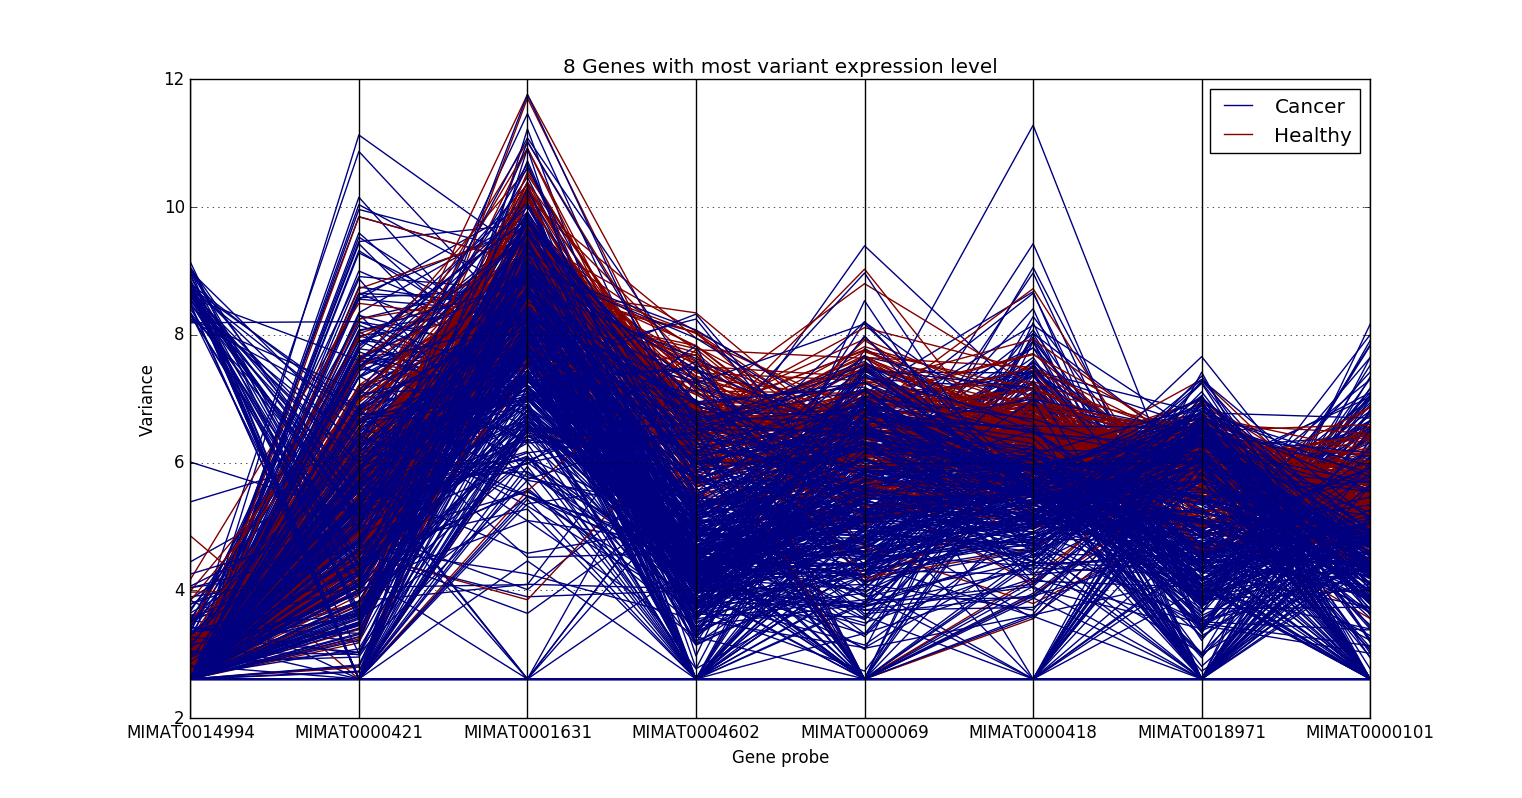
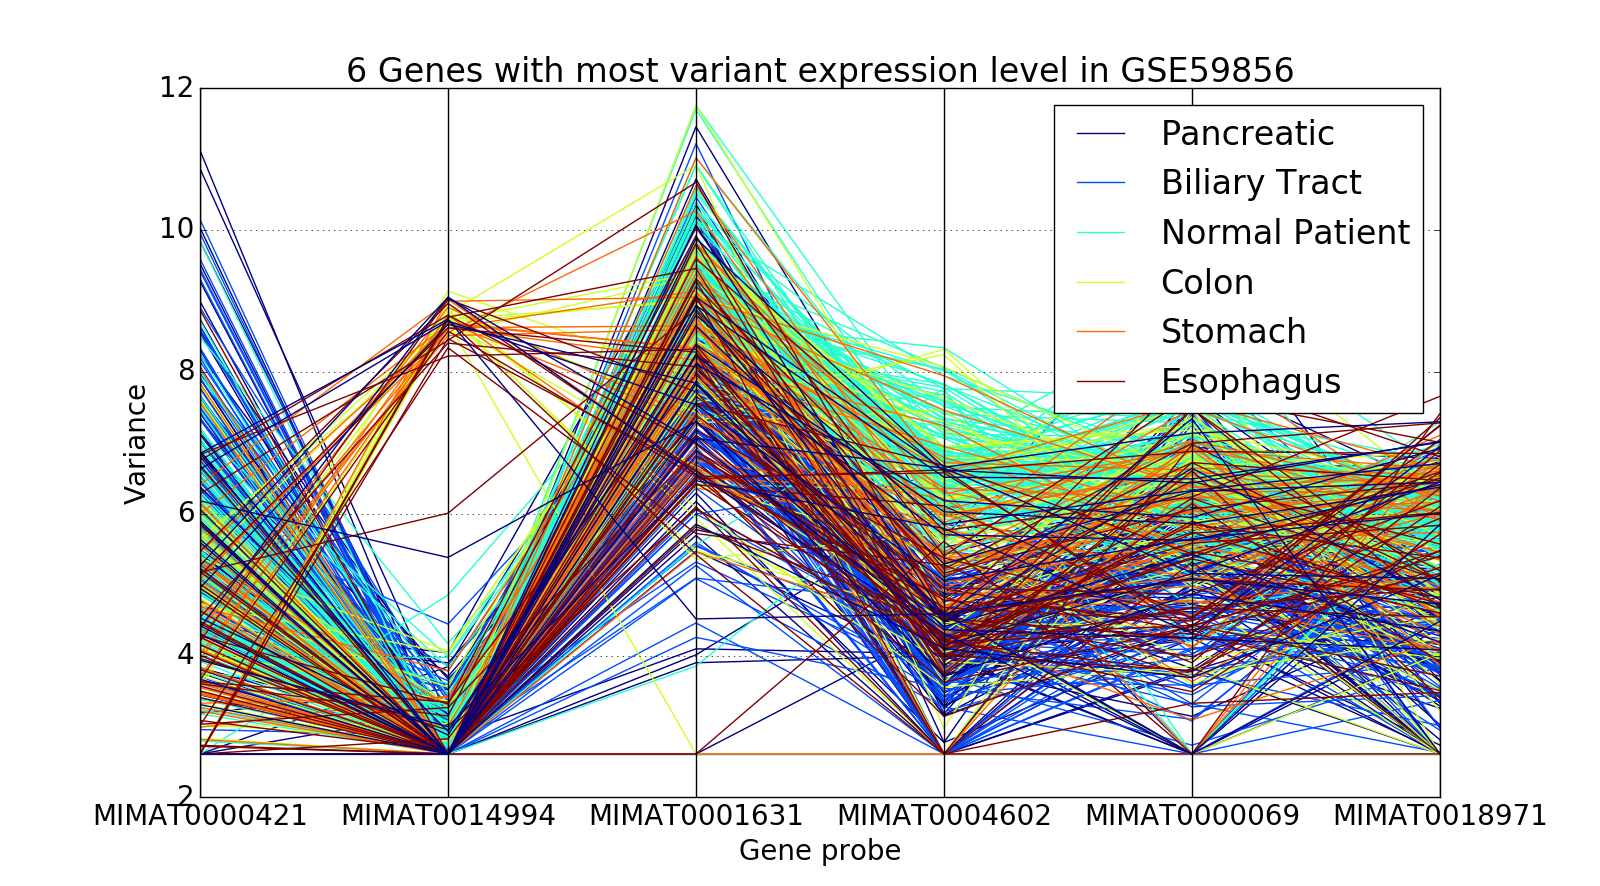
performance comparison by no of features and methods

diff --git a/KNN.py b/KNN.py
@@ -1,6 +1,7 @@
 """This is an implementaion of K nearest neighbors, before which we are analyzing 
 the data also in the same script"""
 
+import sys
 import pandas as pd
 import numpy as np
 from sklearn.neighbors import KNeighborsClassifier
@@ -11,13 +12,14 @@ import get_data
 import plot_learning_curve as plc
 import plot_confusion_matrix as pcm
 import matplotlib.pyplot as plt
+import matplotlib
 from pandas.tools.plotting import parallel_coordinates, radviz
 import warnings
 
 #using geo data sets GSE... 32474, 19804, 27562, 59856, 33315
 
 #visualize data
-def visualize_data(X, df, df_type):
+def visualize_data(X, df, df_type, dataset):
 
 	"""checking the variance, mean and standard deviation of features"""
 	variance = np.var(X, axis = 0)
@@ -33,17 +35,17 @@ def visualize_data(X, df, df_type):
 	plt.plot(xlength, variance)
 	plt.ylabel('Variance')
 	plt.xlabel('Gene probe')
-	plt.title('Variance of expression level of the genes')
+	plt.title('Variance of gene expression level in GSE' + dataset)
 	plt.show()
 
 	"""visualizing the separatability of 8 top most variant features"""
 	features = dv.loc['Probe',:]
-	featuresForGraph = features[0:8]
+	featuresForGraph = features[0:6]
 	plt.figure()
 	dfPlot = df.loc[:, featuresForGraph]
 	data = pd.concat([dfPlot, df_type], axis = 1)
 	parallel_coordinates(data, '!Sample_title', colormap = 'jet')
-	plt.title('8 Genes with most variant expression level')
+	plt.title('6 Genes with most variant expression level in GSE' + dataset)
 	plt.xlabel('Gene probe')
 	plt.ylabel('Variance')
 	plt.show()
@@ -52,7 +54,7 @@ def visualize_data(X, df, df_type):
 	using normalized values""" 
 	plt.figure();
 	radviz(data, '!Sample_title')
-	plt.title('8 Genes with most variant expression level')
+	plt.title('8 Genes with most variant expression level in GSE' + dataset)
 	#plt.xlabel('Normalized')
 	plt.tick_params(axis = 'both', bottom = 'off', left = 'off', 
 		labelbottom  = 'off', labelleft = 'off')
@@ -60,13 +62,13 @@ def visualize_data(X, df, df_type):
 
 	"""visualizing the seperability of 8 least variant features"""
 	features = dv.loc['Probe',:]
-	featuresForGraph = features.tail(8)
+	featuresForGraph = features.tail(6)
 
 	plt.figure()
 	dfPlot = df.loc[:, featuresForGraph]
 	data = pd.concat([dfPlot, df_type], axis = 1)
 	parallel_coordinates(data, '!Sample_title', colormap = 'jet')
-	plt.title('8 Genes with least variant expression level')
+	plt.title('6 Genes with least variant expression level in GSE'+dataset)
 	plt.xlabel('Gene probe')
 	plt.ylabel('Variance')
 	plt.show()
@@ -75,7 +77,7 @@ def visualize_data(X, df, df_type):
 	normalized values"""
 	plt.figure();
 	radviz(data, '!Sample_title')
-	plt.title('8 Genes with least variant expression level')
+	plt.title('8 Genes with least variant expression level in GSE'+dataset)
 	plt.tick_params(axis = 'both', bottom = 'off', left = 'off', 
 		labelbottom  = 'off', labelleft = 'off')
 	plt.show()
@@ -100,7 +102,7 @@ def feature_select_var(X, Y, df_type, class_names):
 		feature_dist = abs(np.subtract(feature_dist, class_mean[i,:]))
 	feature_importance = pd.DataFrame(abs(np.sum(class_variance, axis = 0)/feature_dist))
 			#the lower, the better
-	feature_importance.sort_values(0, axis = 0, ascending = True, 
+	feature_importance.sort_values(0, axis = 0, ascending = False, 
 		inplace = True)
 	feature_importance_order = pd.DataFrame(feature_importance.axes)
 	feature_importance_order = np.array(feature_importance_order.loc[0,:])
@@ -194,13 +196,19 @@ def predict_output(clf, X):
 	return Y_pred
 
 
-def main():
+def main(argv):
+	script, dataset = argv
 	warnings.filterwarnings("ignore")
+	font = {'family' : 'normal',
+        #'weight' : 'bold',
+        'size'   : 20}
+
+	matplotlib.rc('font', **font)
 	#get data in useful form [samples X features]
 	X, Y, df, df_type, class_names = get_data.get_data(
-		'/Users/GodSpeed/Documents/Courses/Bioinformatics/Project/Datasets/GSE59856_series_matrix.txt')
[1 lines of base64/hex data omitted]
 	
-	#visualize_data(X, df, df_type)
+	visualize_data(X, df, df_type, dataset)
 
 	X = normalize(X, axis = 1, copy = False)
 	#X_train, X_test, Y_train, Y_test = train_test_split(X, Y, test_size = 0.2)
@@ -231,6 +239,6 @@ def main():
 	print "F1-score of classification is ", np.around(f1_score(Y_test, Y_pred, 
 		average = 'weighted'), decimals = 2)
 
-#if __name__ == "__main__":
-#	main()
+if __name__ == "__main__":
+	main(sys.argv)
 #main(dims)

diff --git a/perf_comp.py b/perf_comp.py
@@ -28,16 +28,24 @@ def compare_methods(dataset):
 	#'Supervised variance by mean ratio', 
 	'Semi-supervised variance by mean ratio',
 	'Unsupervised variance by mean ratio', 
-	'Chi Square']
+	'Chi Square', 'ANOVA F-classifier']
 	classifiers = ['KNN', 'Naive Bayes', 'Decision Trees']
+	max_features = 500
+	f_measure_each = np.array([[0] * int(max_features/100)] * 
+		(len(classifiers) * (len(feature_selection) - 1)))
+	#print np.shape(f_measure_each)
+	#f_measure_each = []
+	counter = 0
+	method_combo = []
 
-	a = [[(0,0)] * len(classifiers)] * len(feature_selection)
+	a = [[(0,0)] * len(classifiers)] * (len(feature_selection))
+	#ignoring original features from feature_selection
 	performance = np.array(a)
 	#print performance
 	
 	for model in classifiers:
 		for feature_method in feature_selection:
-			for num_of_dims in range(100, 501, 100):
+			for num_of_dims in range(100, max_features + 1, 100):
 				fmeasure_expe = []
 				for iter in range(0,5):
 					X = Xtemp
@@ -59,8 +67,8 @@ def compare_methods(dataset):
 							0:num_of_dims])]
 					elif feature_method == 'Chi Square':
 						X = Naive_Bayes.feature_reduce(X, Y, num_of_dims)
-					#elif feature_method == 'Mutual Info Classifier':
-					#	X = DecisionTree.feature_reduce_mic(X, Y, num_of_dims)
+					elif feature_method == 'ANOVA F-classifier':
+						X = DecisionTree.feature_reduce_f_class_if(X, Y, num_of_dims)
 
 					#splitting data into training and testing set
 					X_train, X_test, Y_train, Y_test = train_test_split(X, Y, 
@@ -84,8 +92,12 @@ def compare_methods(dataset):
 					fmeasure_expe.append(fmeasure)
 
 				fmeasure = np.mean(fmeasure_expe) * 100
-				col = classifiers.index(model)
 				row = feature_selection.index(feature_method)
+				col = classifiers.index(model)
+
+				if feature_method != 'Original Features':	#storing f-measure for num_of_dims
+					f_measure_each[counter][int(num_of_dims/100) - 1] = fmeasure
+
 				
 				if fmeasure > performance[row][col][0]:
 					performance[row][col][0] = fmeasure
@@ -94,11 +106,21 @@ def compare_methods(dataset):
 					else:
 						performance[row][col][1] = num_of_dims
 
-	print performance
-	return performance, feature_selection, classifiers
+			if feature_method != 'Original Features':
+				counter = counter + 1
+				method_combo.append(model + '|' + feature_method)
 
-def plot_table(performance, feature_selection, classifiers, dataset, normalize 
-	= False, cmap = plt.cm.Blues):
+	method_combo = np.array(method_combo)
+	print performance
+	#print f_measure_each
+	f_measure_dims = pd.DataFrame(data = f_measure_each, 
+		columns = np.arange(100, max_features + 1, 100),
+		index = method_combo)
+	print f_measure_dims
+	return performance, feature_selection, classifiers, f_measure_dims
+
+def plot_table(performance, feature_selection, classifiers, dataset, 
+	f_measure_dims, normalize = False, cmap = plt.cm.Blues):
     plt.figure()
     plt.title("Feature selection method versus classification model for GSE" + 
     	dataset)
@@ -120,13 +142,21 @@ def plot_table(performance, feature_selection, classifiers, dataset, normalize
     plt.xlabel('Classification Methods')
     plt.show()
 
+    #plt.figure()
+    f_measure_dims.plot(colormap = plt.cm.jet)
+    plt.title('Performance Rate comparison for Feature Selection Method plus Classifying model GSE' + dataset)
+    plt.xlabel('Number of features selected')
+    plt.ylabel('Accuracy %')
+    #ax.legend_.remove()
+    plt.show()
+
 	
 
 def main(argv):
 	warnings.filterwarnings("ignore")
 	script, dataset = argv
-	[performance, feature_selection, classifiers] = compare_methods(dataset)		#comparing performance
-	plot_table(performance, feature_selection, classifiers, dataset)
+	[performance, feature_selection, classifiers, f_measure_dims] = compare_methods(dataset)		#comparing performance
+	plot_table(performance, feature_selection, classifiers, dataset, f_measure_dims.transpose())
 
 
 if __name__ == "__main__":

diff --git a/visual_compare_methods.py b/visual_compare_methods.py
@@ -1,0 +1,100 @@
+import sys
+import get_data
+import KNN
+import Naive_Bayes_pyV2 as Naive_Bayes
+import DecisionTree
+from sklearn.model_selection import train_test_split, ShuffleSplit
+from sklearn.neighbors import KNeighborsClassifier
+from sklearn.naive_bayes import GaussianNB
+from sklearn import tree
+from sklearn.metrics import f1_score
+import numpy as np
+import pandas as pd
+import itertools
+import matplotlib.pyplot as plt
+import warnings
+
+def visual_compare_methods():
+	max_features = 500
+	datasets = np.array(['GSE32474', 'GSE19804', 'GSE27562', 'GSE59856', 'GSE33315'])
+	counter = 0
+	method_combo = []
+	
+	feature_selection = ['Semi-supervised variance by mean ratio',
+	'Unsupervised variance by mean ratio', 
+	'Chi Square', 'ANOVA F-classifier']
+	classifiers = ['KNN', 'Naive Bayes', 'Decision Trees']
+
+	for model in classifiers:
+		for feature_method in feature_selection:
+			f_measure_each = np.array([[0] * int(max_features/100)] * (len(datasets)))
+			counter = 0
+			for dataset in datasets:
[1 lines of base64/hex data omitted]
+				X, Y, df, df_type, class_names = get_data.get_data(filename)
+				Xtemp = X
+				for num_of_dims in range(100, max_features + 1, 100):
+					fmeasure_expe = []
+					for iter in range(0,5):
+						X = Xtemp
+						if feature_method == 'Semi-supervised variance by mean ratio':
+							feature_importance_order = KNN.feature_std_distance(X, Y, 
+								df_type, class_names)
+							X = X[:, np.array(feature_importance_order[
+								0:num_of_dims])]
+						elif feature_method == 'Unsupervised variance by mean ratio':
+							feature_importance_order = KNN.feature_select_std(X)
+							X = X[:, np.array(feature_importance_order[
+								0:num_of_dims])]
+						elif feature_method == 'Chi Square':
+							X = Naive_Bayes.feature_reduce(X, Y, num_of_dims)
+						elif feature_method == 'ANOVA F-classifier':
+							X = DecisionTree.feature_reduce_f_class_if(X, Y, num_of_dims)
+
+					#splitting data into training and testing set
+						X_train, X_test, Y_train, Y_test = train_test_split(X, Y, 
+							test_size = 0.2)
+
+						if model == 'KNN':
+							clf = KNN.train_model(KNeighborsClassifier( 
+								n_neighbors = 1), X_train, Y_train)
+						elif model == 'Naive Bayes':
+							clf = Naive_Bayes.train_model(GaussianNB(), X_train, 
+								Y_train)
+						elif model == 'Decision Trees':
+							clf = DecisionTree.train_model(
+								tree.DecisionTreeClassifier(), X_train, Y_train)
+
+						Y_pred = clf.predict(X_test)
+
+						#checking accuracy
+						fmeasure = np.around(f1_score(Y_test, Y_pred, average = 
+							'weighted'), decimals = 2)
+						fmeasure_expe.append(fmeasure)
+
+					fmeasure = np.mean(fmeasure_expe) * 100
+					#row = feature_selection.index(feature_method)
+					#col = classifiers.index(model)
+					f_measure_each[counter][int(num_of_dims/100) - 1] = fmeasure
+				counter = counter + 1
+
+			#print f_measure_each
+			f_measure_dims = (pd.DataFrame(data = f_measure_each, 
+				columns = np.arange(100, max_features + 1, 100),
+				index = datasets)).transpose()
+			
+			print f_measure_dims
+			
+			#plt.figure()
+			f_measure_dims.plot()
+			plt.title("Accuracy rate for " + feature_method + ' and ' + model)
+			plt.ylabel('Accuracy %')
+			plt.xlabel('Number of features after feature selection method')
+			plt.show()
+	#return performance, feature_selection, classifiers, f_measure_dims
+
+def main():
+	warnings.filterwarnings("ignore")
+	visual_compare_methods()
+
+main()
